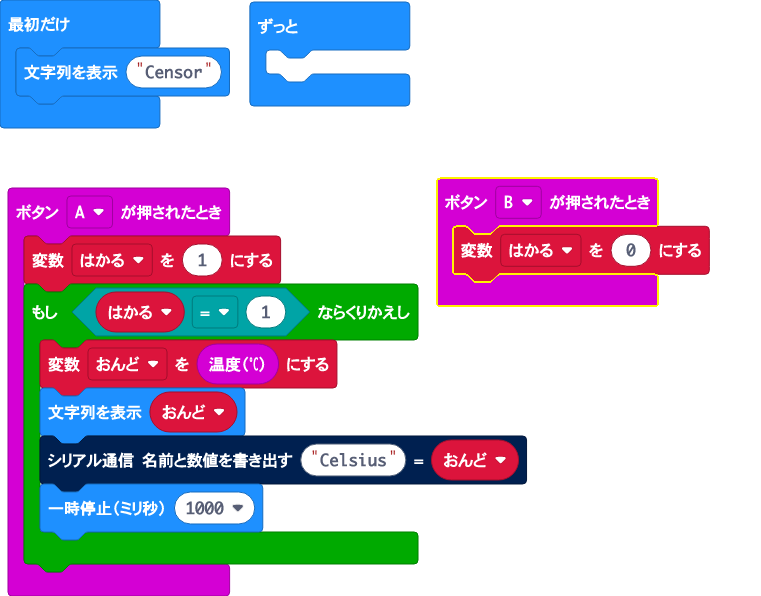
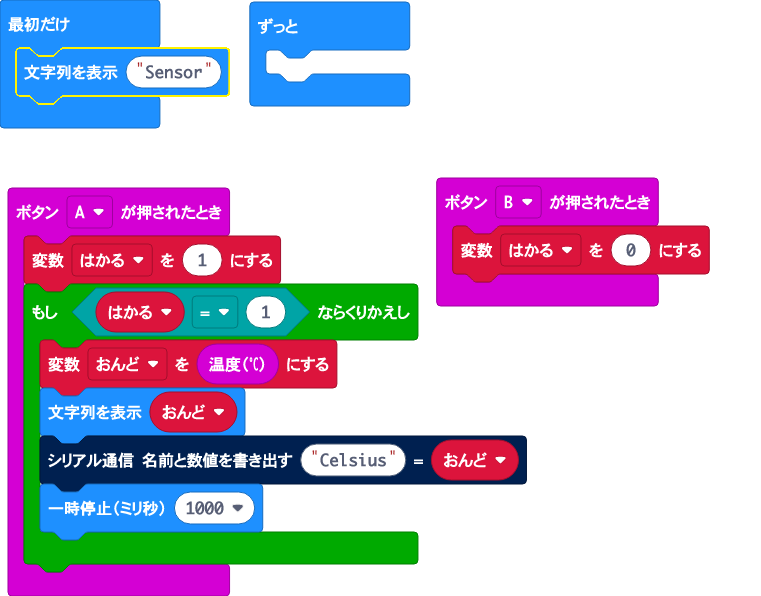
Update pxt.json, main.blocks, main.ts

diff --git a/main.ts b/main.ts
@@ -12,7 +12,7 @@ input.onButtonPressed(Button.B, function () {
 })
 let おんど = 0
 let はかる = 0
-basic.showString("Censor")
+basic.showString("Sensor")
 basic.forever(function () {
 	
 })
